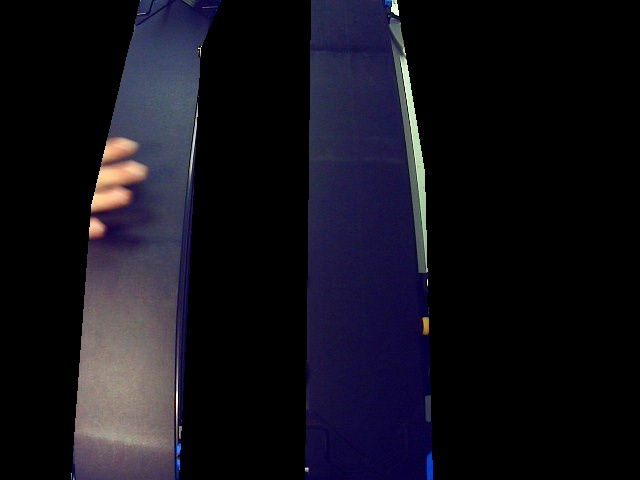
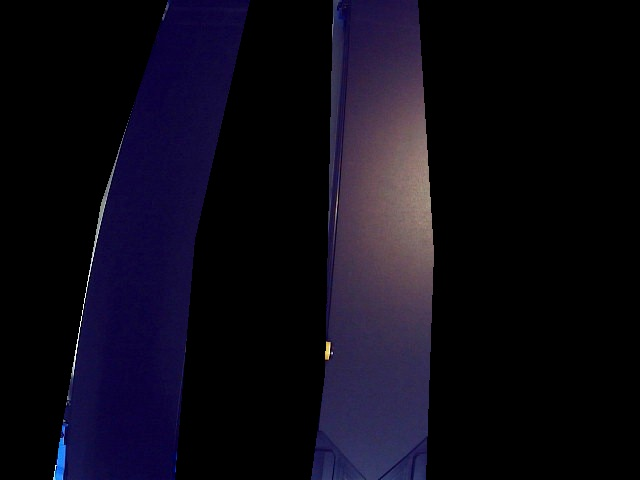
Bug fixes final

diff --git a/src/BusinessLayer/DT/VisionBasedDT/conveyor_vision_module.py b/src/BusinessLayer/DT/VisionBasedDT/conveyor_vision_module.py
@@ -1,7 +1,6 @@
 from __future__ import annotations
 
 import os
-import time
 from types import SimpleNamespace
 
 import cv2
@@ -34,9 +33,11 @@ class ConveyorVisionModule:
 
         self.unknown_object = None
 
-        self.min_progress_threshold = 0.35
-        self.max_progress_progress_threshold = 0.65
-        self.anomaly_3_last_times = {
+        self.min_progress_threshold = 0.25
+        self.max_progress_progress_threshold = 0.8
+
+        # CHANGED: Replaced timestamp dictionaries with counter dictionaries
+        self.anomaly_3_counters = {
             (ObjectShape.CIRCLE, ObjectColor.GREEN): 0,
             (ObjectShape.CIRCLE, ObjectColor.BLUE): 0,
             (ObjectShape.CIRCLE, ObjectColor.RED): 0,
@@ -45,7 +46,7 @@ class ConveyorVisionModule:
             (ObjectShape.SQUARE, ObjectColor.RED): 0,
         }
 
-        self.anoamly_14_last_times = {
+        self.anomaly_14_counters = {
             0: 0,
             1: 0,
         }
@@ -239,8 +240,11 @@ class ConveyorVisionModule:
         opposite_robot_state_key = virtual_robots[opposite_id].state.key
         classified_objects_and_progress = self.process_image(image, robot_id, opposite_robot_state_key)
 
+        # Track which conveyors have unknown objects in this frame to reset counters for those that don't
+        conveyors_with_unknowns = set()
+
         for object_appearance, conveyor_id, progress in classified_objects_and_progress:
-            # Ignore buttom of the image when the robot is moving an object since the object is the visible
+            # Ignore bottom of the image when the robot is moving an object since the object is then visible
             if virtual_robots[robot_id].state.key != "Observation" and (
                 (conveyor_id == 0 and robot_id == 0 and progress > 0.89)
                 or (conveyor_id == 0 and robot_id == 1 and progress < 0.165)
@@ -249,16 +253,24 @@ class ConveyorVisionModule:
             ):
                 continue
 
-            # Check for unknows
+            # Check for unknowns (Anomaly 14)
             if object_appearance == "Unknown":
                 if progress < 0.15 or progress > 0.9:
                     continue
                 else:
-                    if time.time() - self.anoamly_14_last_times[conveyor_id] < 15:
+                    conveyors_with_unknowns.add(conveyor_id)
+                    self.anomaly_14_counters[conveyor_id] += 1
+
+                    # Trigger only after seeing the unknown object 3 times
+                    if self.anomaly_14_counters[conveyor_id] >= 3:
                         self.unknown_object = {"Location": "Conveyors", "Conveyor": conveyor_id, "Progress": progress}
-                    self.anoamly_14_last_times[conveyor_id] = time.time()
 
                 print(f"Robot {robot_id}: Unknown Object on conveyor {conveyor_id} with progress {progress}")
+
+        # Reset anomaly 14 counters for conveyors that didn't have an unknown object this frame
+        for cid in self.anomaly_14_counters.keys():
+            if cid not in conveyors_with_unknowns:
+                self.anomaly_14_counters[cid] = 0
 
         classified_objects_and_progress = [(o, c, p) for o, c, p in classified_objects_and_progress if o != "Unknown"]
 
@@ -268,38 +280,44 @@ class ConveyorVisionModule:
         for virtual_object in virtual_objects:
             update_object_dict = {}
             object_is_in_image = False
+            anomaly_3_triggered_this_frame = False
+
             for image_object in classified_objects_and_progress:
                 (image_object_shape, image_object_color), image_object_conveyor_id, image_object_progress = image_object
                 if virtual_object.shape == image_object_shape and virtual_object.color == image_object_color:
                     object_is_in_image = True
-
-                if virtual_object.shape == image_object_shape and virtual_object.color == image_object_color:
                     update_object_dict["has_been_observed"] = True
+
                     # Check if object is on the correct conveyor
-                    if virtual_object.state.id == image_object_conveyor_id and virtual_object.state.key == "Conveyor":
+                    if virtual_object.state.id == image_object_conveyor_id and virtual_object.state.origin == "Conveyor":
                         error = virtual_object.progress - image_object_progress
-                        error_threshold = 0.35
+                        error_threshold = 0.3
 
                         if abs(error) > error_threshold:
                             update_object_dict["error_correction"] = -error
 
-                    # Objects on conveyor should not be on this conveyor
+                    # Objects on conveyor should not be on this conveyor (Anomaly 3)
                     elif image_object_progress >= 0.2 and image_object_progress <= 0.8 and virtual_object.state.origin != "Conveyor":
-                        if time.time() - self.anomaly_3_last_times[(virtual_object.shape, virtual_object.color)] < 15:
+                        anomaly_3_triggered_this_frame = True
+                        self.anomaly_3_counters[(virtual_object.shape, virtual_object.color)] += 1
+
+                        # Trigger only after seeing the object in the wrong place 3 times
+                        if self.anomaly_3_counters[(virtual_object.shape, virtual_object.color)] >= 3:
                             anomalies.append((configuration["Anomalies"][3], (virtual_object.shape, virtual_object.color, virtual_object.state.id)))
                             update_object_dict["Anomaly_3"] = SimpleNamespace(id=image_object_conveyor_id, progress=image_object_progress)
 
-                        self.anomaly_3_last_times[(virtual_object.shape, virtual_object.color)] = time.time()
+            # Reset the Anomaly 3 counter if the object wasn't doing something anomalous in this frame
+            if not anomaly_3_triggered_this_frame:
+                self.anomaly_3_counters[(virtual_object.shape, virtual_object.color)] = 0
 
             if virtual_object.state.origin == "Conveyor" and not object_is_in_image and virtual_object.progress >= self.min_progress_threshold and virtual_object.progress <= self.max_progress_progress_threshold:
                 update_object_dict["missing"] = True
 
-                if virtual_object.missing_counter == 2:
+                if virtual_object.missing_counter == 4:
                     # Anomaly 5
                     if virtual_object.has_been_observed_on_conveyor:
                         anomalies.append((configuration["Anomalies"][5], virtual_object.state.id))
-
-                    # Either ANomaly 5, 10 or 11
+                    # Either Anomaly 5, 10 or 11
                     else:
                         anomalies.append(("Either Anomaly 5, 10 or 11 has occured", virtual_object.state.id))
 

diff --git a/src/BusinessLayer/robot.py b/src/BusinessLayer/robot.py
@@ -52,6 +52,19 @@ class RobotArm:
         self.stop_event = stop_event
         self.storage_pickup_confirmation = "Waiting"
         self.is_in_observation = False
+        self.release_vacuum = True
+
+    def dont_release_vacuum(self):
+        self.release_vacuum = False
+
+    def change_speed_of_conveyor_belt(self, speed):
+        self.conveyor_speed = speed
+        self.conveyor_is_running = True
+        self.robot.run_conveyor(self.conveyor_id, speed=speed, direction=ConveyorDirection.BACKWARD)
+
+    def change_conveyor_direction(self):
+        self.conveyor_is_running = True
+        self.robot.run_conveyor(self.conveyor_id, speed=self.conveyor_speed, direction=ConveyorDirection.FORWARD)
 
     def get_ir(self) -> bool:
         return self.IR
@@ -142,6 +155,7 @@ class RobotArm:
         self.robot.stop_conveyor(self.conveyor_id)
 
     def _move_to_standby_position(self) -> None:
+        self.is_in_observation = False
         if not self.stop_event.is_set():
             self.robot.move_pose(self.standby_position)
 
@@ -182,14 +196,16 @@ class RobotArm:
                 target_pose.z += 0.005
             elif self.ID == 1:
                 target_pose.x += 0.018
-                target_pose.y += 0.013
+                target_pose.y += 0.008
                 target_pose.z += 0.005
         return target_pose
 
     def _release_with_tool(self) -> None:
-        self.robot.release_with_tool()
+        if self.release_vacuum:
+            self.robot.release_with_tool()
 
     def _find_and_move_object(self, workspace: str, shape: ObjectShape, color: ObjectColor, destination: list[float] | None) -> None:
+        self.is_in_observation = False
         # Try to detect the object 10 times
         for _ in range(10):
             if self.stop_event.is_set():
@@ -353,31 +369,42 @@ class RobotArm:
         time.sleep(1)
 
     def _move_to_observation_position(self) -> None:
+        self.is_in_observation = False
         if not self.stop_event.is_set():
             self.robot.move_pose(*self.observation_pose)
-            time.sleep(0.5)
+            time.sleep(0.25)
             self._take_image("Conveyors")
+            time.sleep(0.25)
 
     def _move_to_observation_position_storage(self) -> None:
+        self.is_in_observation = False
         if not self.stop_event.is_set():
             self.robot.move_pose(*self.observation_pose_storage)
-            time.sleep(0.5)
+            time.sleep(0.25)
             self._set_camera_settings("Storage")
+            print("Taking image")
             self._take_image("Storage")
+            print("Done with image")
+            time.sleep(0.25)
 
     def _move_to_observation_position_conveyor(self) -> None:
+        self.is_in_observation = False
         if not self.stop_event.is_set():
             self.robot.move_pose(*self.observation_pose_conveyor)
             self._set_camera_settings("Conveyor")
 
     def _place_and_release(self, destination: list[float]) -> None:
+        self.is_in_observation = False
         if destination == self.place_conveyor and not self.stop_event.is_set():
             self._move_to_standby_position()
             start_time = time.time()
 
+            stop_conveyor_flag = False
+
             while not self.ready_to_drop and not self.stop_event.is_set():
-                if self._check_ir():
+                if self._check_ir() or stop_conveyor_flag:
                     self._stop_conveyorbelt()
+                    stop_conveyor_flag = True
                 elif time.time() - start_time > 0.2:
                     self._start_conveyorbelt()
 
@@ -391,6 +418,7 @@ class RobotArm:
             self._release_with_tool()
 
     def _pick_and_place(self, destination: list[float], final_destination: bool, shape: ObjectShape, color: ObjectColor, workspace: str) -> None:
+        self.is_in_observation = False
         if self.stop_event.is_set():
             return
 

diff --git a/src/BusinessLayer/system.py b/src/BusinessLayer/system.py
@@ -1,9 +1,12 @@
 from __future__ import annotations
 
 import copy
+import queue
 import threading
 import time
 from typing import TYPE_CHECKING
+
+import keyboard
 
 from resources.environment import StorageObject, configuration
 from src.BusinessLayer.DT.dt_runner import DTRunner
@@ -22,6 +25,7 @@ class System:
         self.lock = threading.Lock()
         self.DT.create_event(("Setup done", None))
         self.stop_event = threading.Event()
+        self.keyboard_queue = queue.Queue()
 
         # Add all the robot arms
         for i in range(len(ips)):
@@ -35,6 +39,47 @@ class System:
     # Private functions
     #
     #
+
+    def _keyboard_listener(self) -> None:
+        print("Press [k/m] for speed, [j] for direction, [h] for vacuum hold.")
+
+        # Format: (arm_id, action_type, value)
+        keyboard.on_press_key("k", lambda _: self.keyboard_queue.put((1, "speed", 15)))
+        keyboard.on_press_key("m", lambda _: self.keyboard_queue.put((0, "speed", 15)))
+        keyboard.on_press_key("j", lambda _: self.keyboard_queue.put((0, "direction", None)))
+        keyboard.on_press_key("h", lambda _: self.keyboard_queue.put((1, "vacuum", None)))
+
+    def _keyboard_processor_worker(self) -> None:
+        while self.running:
+            try:
+                arm_id, action, value = self.keyboard_queue.get(timeout=0.1)
+
+                if arm_id >= len(self.robot_arms):
+                    self.keyboard_queue.task_done()
+                    continue
+
+                arm = self.robot_arms[arm_id]
+
+                # CRITICAL FIX: Acquire the ROBOT's lock, not the System lock!
+                # This prevents the keyboard thread from reading the TCP socket
+                # while the robot worker thread is executing arm.loop()
+                with arm.lock:
+                    if action == "speed":
+                        print(f"[KEYBOARD] Safely setting Robot {arm_id} conveyor speed to {value}")
+                        arm.change_speed_of_conveyor_belt(value)
+                    elif action == "direction":
+                        print(f"[KEYBOARD] Safely changing Robot {arm_id} conveyor direction")
+                        arm.change_conveyor_direction()
+                    elif action == "vacuum":
+                        print(f"[KEYBOARD] Safely locking Robot {arm_id} vacuum")
+                        arm.dont_release_vacuum()
+
+                self.keyboard_queue.task_done()
+
+            except queue.Empty:
+                continue
+            except Exception as e:
+                print(f"Error handling keyboard command: {e}")
 
     # Sets up the connections to the robot arms
     def _robot_worker(self, arm: RobotArm) -> None:
@@ -240,6 +285,12 @@ class System:
         self.threads.append(t_image)
         t_image.start()
 
+        self._keyboard_listener()
+
+        t_kbd_processor = threading.Thread(target=self._keyboard_processor_worker, daemon=True)
+        self.threads.append(t_kbd_processor)
+        t_kbd_processor.start()
+
     # Gets the most current storage objects from the robotarms and returns them
     def get_objects(self) -> list[StorageObject]:
         # Retrieve updates from the robot arms
@@ -296,6 +347,10 @@ class System:
                 if len(anomaly_log_object) == 4:
                     shape, color, robot_id = anomaly_log_object[3]
                     self._anomaly_3_mitigation(robot_id, shape, color, False)
+
+            elif anomaly_log_object[2] in ["Either anomaly 1 or 4 has occured", "Either anomaly 2 or 4 has occured"]:
+                robot_id = int(anomaly_log_object[1][-1])
+                self.keyboard_queue.put((robot_id, "speed", 75))
 
         storage_pickup_confirmation, robot_id = info[2]
         if storage_pickup_confirmation != "Waiting":

diff --git a/src/BusinessLayer/DT/VisionBasedDT/vision_based_dt.py b/src/BusinessLayer/DT/VisionBasedDT/vision_based_dt.py
@@ -79,7 +79,15 @@ class VisionBasedDT:
         # Check if something has arrived at ir
         for robot_id in range(len(self.virtual_robots)):
             if latest_ir_readings[robot_id] and not self.last_ir_readings[robot_id]:
-                object_to_add = SimpleNamespace(state=SimpleNamespace(origin="IR"))
+                highest_progress = 0
+                highest_progress_object = None
+
+                for virtual_object in self.virtual_objects:
+                    if virtual_object.get_progress() > highest_progress:
+                        highest_progress = virtual_object.get_progress()
+                        highest_progress_object = virtual_object
+
+                object_to_add = SimpleNamespace(state=SimpleNamespace(origin="IR"), shape=highest_progress_object.shape, color=highest_progress_object.color)
                 self.virtual_robots[robot_id].add_to_queue(configuration["PickFromIRSensorPriority"], object_to_add)
 
         # If an event has occured since last step
@@ -121,10 +129,9 @@ class VisionBasedDT:
                                         # Update the virtual object
                                         error_correction = return_object.updates[update_category]
                                         virtual_object.set_progress(virtual_object.get_progress() + error_correction)
-                                        if error_correction > 0:
+                                        if error_correction < 0:
                                             # Pushed backwards
                                             self.anomaly_log_messages.append((f"Conveyor {virtual_object.get_state().id}", "Either anomaly 1 or 4 has occured"))
-
                                         else:
                                             # Pushed forwards
                                             self.anomaly_log_messages.append((f"Conveyor {virtual_object.get_state().id}", "Either anomaly 2 or 4 has occured"))
@@ -171,7 +178,7 @@ class VisionBasedDT:
                         virt_obj.handle_anomaly(event_type)
 
             elif event_type == "Anomaly 13 Mitigation failed":
-                robot_id = event_param
+                robot_id, _, _ = event_param
                 self.anomaly_log_messages.append((f"Robot {robot_id}", "Anomaly 13 Mitigation failed"))
                 print("Anomaly 13 Mitigation failed, Human intervention required")
 

diff --git a/src/BusinessLayer/DT/virtual_object.py b/src/BusinessLayer/DT/virtual_object.py
@@ -87,7 +87,7 @@ class VirtualObject:
             progress_goal = self.states[f"Conveyor_{self.state.id}"].time
             # Check if the object has arrived too early
             if progress_goal - self.ir_hit_progress > self.time_buffer:
-                self.anomaly_logs.append((f"Conveyor {self.state.id}", f"Either anomaly 2 or 4 has occured ({self.shape}, {self.color})"))
+                self.anomaly_logs.append((f"Conveyor {self.state.id}", "Either anomaly 2 or 4 has occured"))
             # Check if the object has arrived too late
             elif progress_goal - self.ir_hit_progress < -self.time_buffer:
                 self.anomaly_logs.append((f"Conveyor {self.state.id}", "Either anomaly 1 or 4 has occured"))

diff --git a/src/PresentationLayer/GUI.py b/src/PresentationLayer/GUI.py
@@ -1,7 +1,7 @@
 import customtkinter as ctk
 from PIL import Image, ImageOps
 
-from src.PresentationLayer.animation import Animation
+from src.PresentationLayer.Animation import Animation
 
 
 class GUI:
@@ -210,7 +210,7 @@ class GUI:
             text_color=self.text_color,
             justify="left",
             anchor="w",
-            wraplength=400,  # IMPORTANT: fixed width
+            wraplength=350,  # IMPORTANT: fixed width
         )
 
         label.pack(
